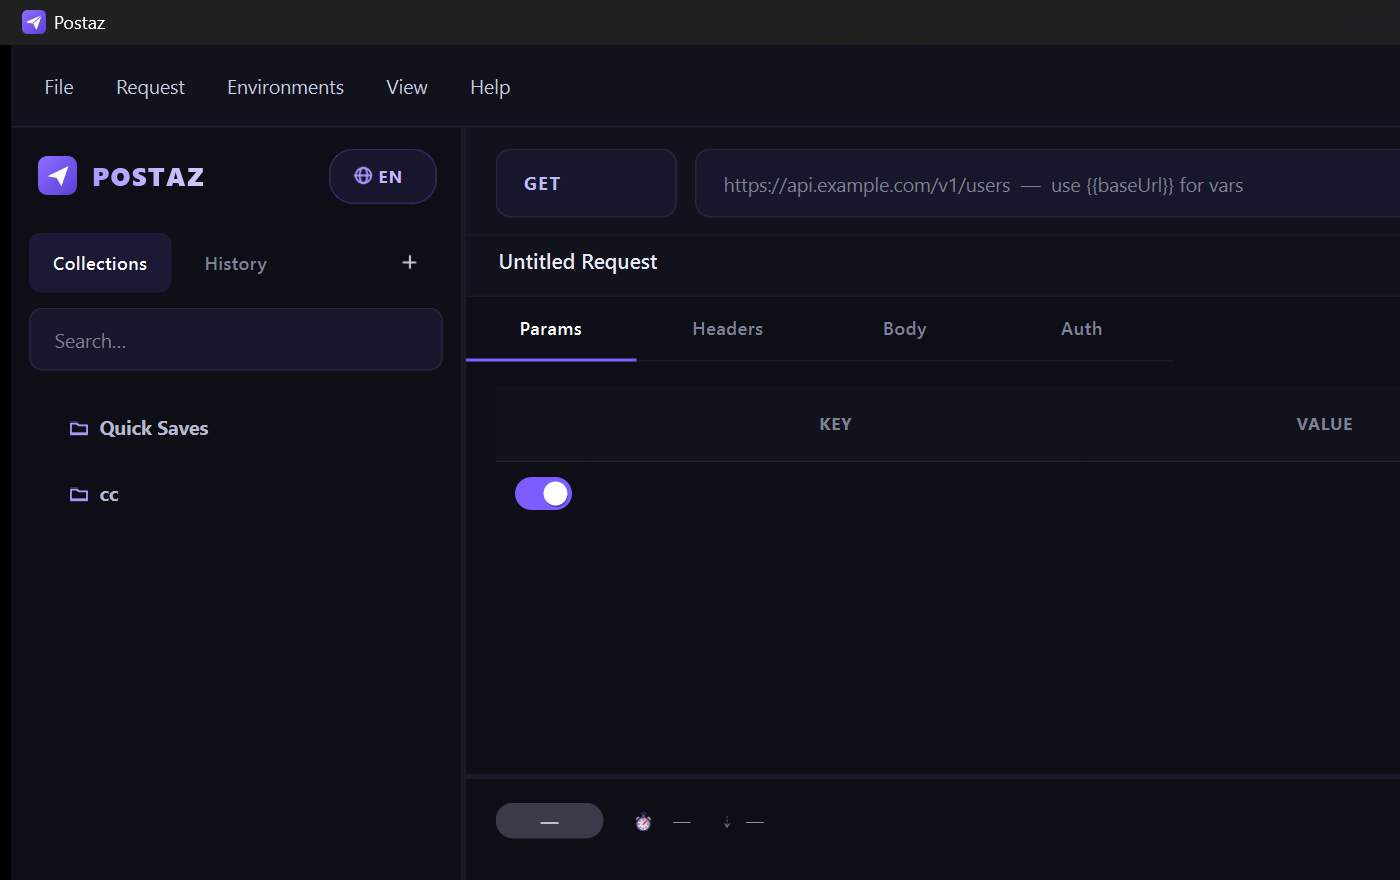
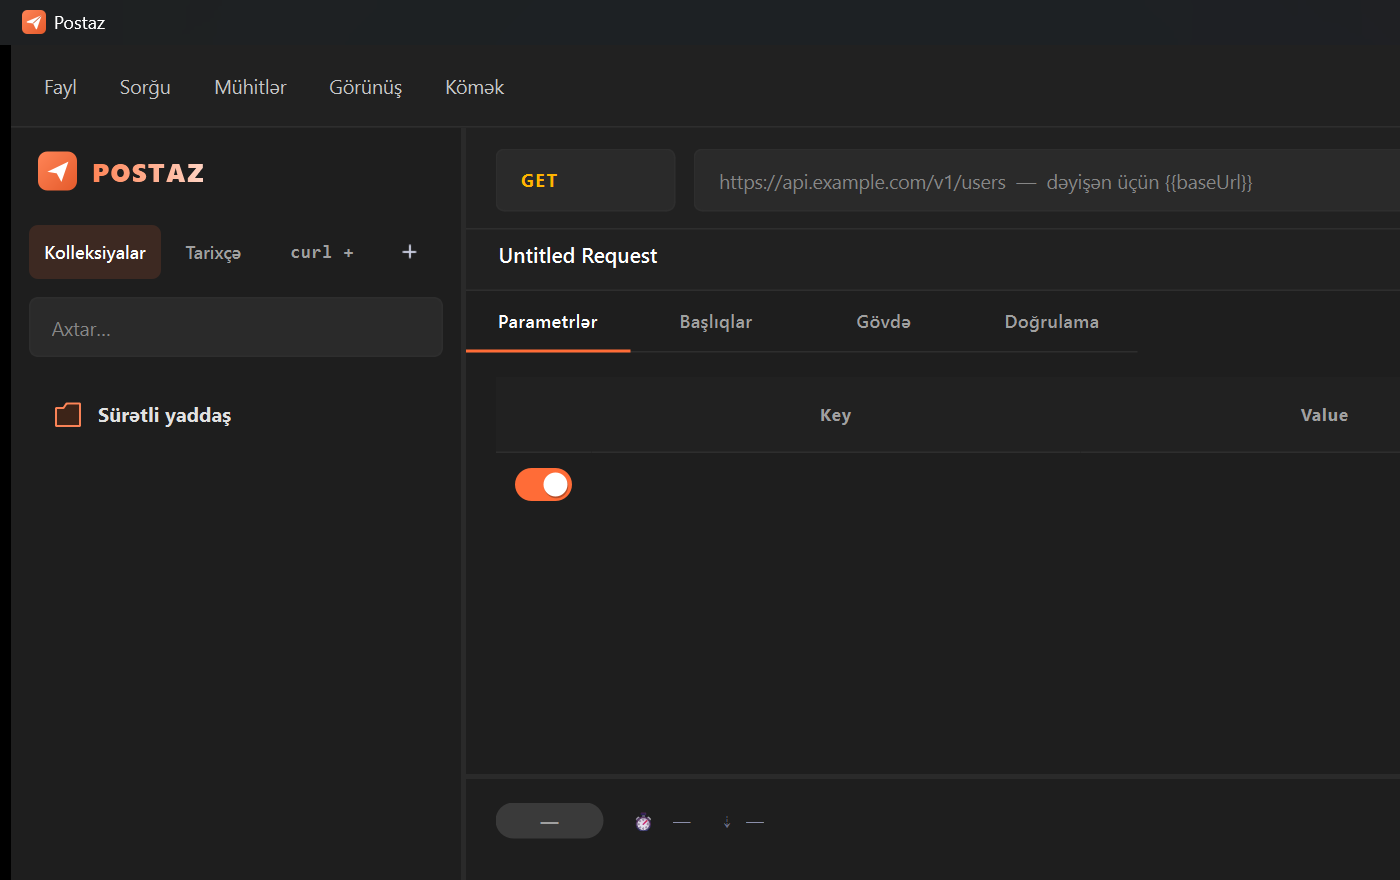
fix: smooth resize / drag, no more flicker + refreshed screenshot
Splitter drag was flickering for two reasons, both fixed:

1. QGraphicsDropShadowEffect on the Send button and Toast was re-rendering
   every frame the redraw region touched them — on Windows this manifests
   as visible jitter during splitter drags. Effects removed; the QSS
   gradient and flat colour already give the button enough presence.

2. QGraphicsOpacityEffect-powered fade animations were firing on every
   tab switch (request editor, response viewer) and on Collections↔History
   panel swap. While running they re-render the affected widget every
   frame, which compounds with the splitter's resize repaints. Removed;
   the QSS tab-underline transition reads as enough motion.

Bonus: sidebar tab buttons (Kolleksiyalar / Collections / Koleksiyonlar)
were getting clipped at narrow widths because the AZ translation is the
longest of the three. Reduced padding from 8/14 to 7/10 and font-size
from 12 to 11.5 so all three languages fit cleanly side-by-side.

docs/screenshot-main.png refreshed to reflect the Postman orange theme,
the 'curl +' pill, the modern toggle switch, and the rest of the v2.0.0
look.

diff --git a/app/ui/widgets.py b/app/ui/widgets.py
@@ -152,20 +152,16 @@ class StatusBadge(QLabel):
 class PrimaryButton(QPushButton):
     """Brand call-to-action button.
 
-    Gradient fill (purple → deep purple), bold uppercase-ish weight, and a
-    soft brand-coloured drop shadow so it feels like it's lifting off the
-    surface. Disabled state in QSS turns the shadow visually-flat."""
+    Solid orange fill, bold weight. We previously had a QGraphicsDropShadowEffect
+    here for a 'lifted' feel, but it caused noticeable repaint flicker during
+    splitter drags on Windows — the effect re-renders every frame the button
+    is touched by the redraw region. The flat look is plenty crisp without it."""
 
     def __init__(self, text: str = "", parent: QWidget | None = None):
         super().__init__(text, parent)
         self.setCursor(Qt.PointingHandCursor)
         self.setObjectName("primaryButton")
         self.setMinimumHeight(44)
-        shadow = QGraphicsDropShadowEffect(self)
-        shadow.setBlurRadius(24)
-        shadow.setOffset(0, 6)
-        shadow.setColor(QColor(255, 108, 55, 120))
-        self.setGraphicsEffect(shadow)
 
 
 class GhostButton(QPushButton):
@@ -210,11 +206,9 @@ class Toast(QLabel):
             f"background:{bg}; color:{fg}; border:1px solid {border};"
             f"border-radius:10px; padding:10px 18px; font-weight:500;"
         )
-        shadow = QGraphicsDropShadowEffect(self)
-        shadow.setBlurRadius(40)
-        shadow.setOffset(0, 8)
-        shadow.setColor(QColor(0, 0, 0, 140))
-        self.setGraphicsEffect(shadow)
+        # Toast is short-lived, but it still paints on top of the main window
+        # which gets resized constantly during splitter drags. A flat toast
+        # avoids the graphics-effect repaint storm.
 
         self.adjustSize()
         self._position()

diff --git a/app/ui/response_viewer.py b/app/ui/response_viewer.py
@@ -133,10 +133,9 @@ class ResponseViewer(QWidget):
 
         self.loader = LoaderOverlay(self)
         translator.language_changed.connect(self._retranslate)
-        # fade response tabs as the user toggles between Body / Headers / Raw
-        self.tabs.currentChanged.connect(
-            lambda _i: fade_in(self.tabs.currentWidget(), 160)
-        )
+        # Tab-switch fade removed — was a QGraphicsOpacityEffect that caused
+        # flicker during splitter resize. The CSS underline transition reads
+        # as enough motion.
         self.clear()
 
     def resizeEvent(self, ev):
@@ -177,7 +176,6 @@ class ResponseViewer(QWidget):
             self.time_label.setText(f"{resp.duration_ms} ms")
             self.size_label.setText("—")
             self.headers_table.setRowCount(0)
-            fade_in(self.body_view, 220)
             return
 
         self.status.set_status(resp.status_code, resp.reason)
@@ -199,8 +197,6 @@ class ResponseViewer(QWidget):
             self.headers_table.insertRow(r)
             self.headers_table.setItem(r, 0, QTableWidgetItem(k))
             self.headers_table.setItem(r, 1, QTableWidgetItem(v))
-
-        fade_in(self.body_view, 220)
 
 
 def _humanize_size(n: int) -> str:

diff --git a/app/ui/request_editor.py b/app/ui/request_editor.py
@@ -203,11 +203,10 @@ class RequestEditor(QWidget):
         self.headers_table.changed.connect(self._emit_changed)
 
         translator.language_changed.connect(self._retranslate)
-        # smooth fade as the user moves between Params / Headers / Body / Auth
-        from .animations import fade_in
-        self.tabs.currentChanged.connect(
-            lambda _i: fade_in(self.tabs.currentWidget(), 160)
-        )
+        # We previously faded the tab content on every currentChanged signal,
+        # but that introduced an opacity effect on the widget tree which
+        # re-rendered every frame the splitter was being dragged — visible as
+        # flicker. The QSS underline transition is enough motion.
         self.load(RequestRecord())
 
     # ── helpers ──────────────────────────────────────────────────────

diff --git a/app/ui/sidebar.py b/app/ui/sidebar.py
@@ -443,12 +443,8 @@ class Sidebar(QWidget):
         self._reload_history()
 
     def _switch(self, idx: int) -> None:
-        """Smooth fade between Collections and History panels."""
-        from .animations import fade_in
+        """Toggle between the Collections tree and the History list."""
         self.stack.setCurrentIndex(idx)
-        widget = self.stack.currentWidget()
-        if widget:
-            fade_in(widget, 180)
         if idx == 1:
             self._reload_history()
 

diff --git a/app/ui/styles.py b/app/ui/styles.py
@@ -117,9 +117,9 @@ QPushButton#clearHistoryButton:pressed {
     background: transparent;
     color: #A0A0A0;
     border: none;
-    padding: 8px 14px;
-    border-radius: 8px;
-    font-size: 12px;
+    padding: 7px 10px;
+    border-radius: 6px;
+    font-size: 11.5px;
     font-weight: 600;
     min-height: 22px;
 }